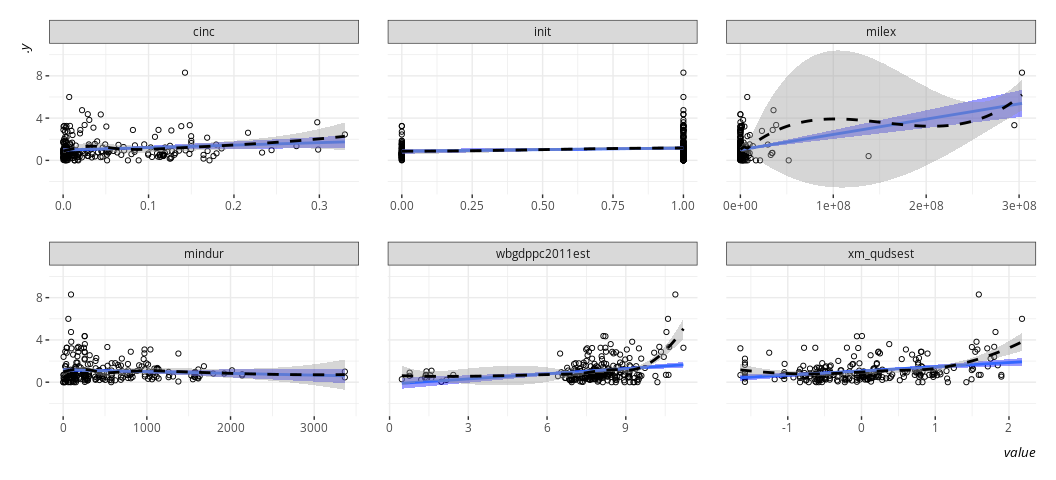
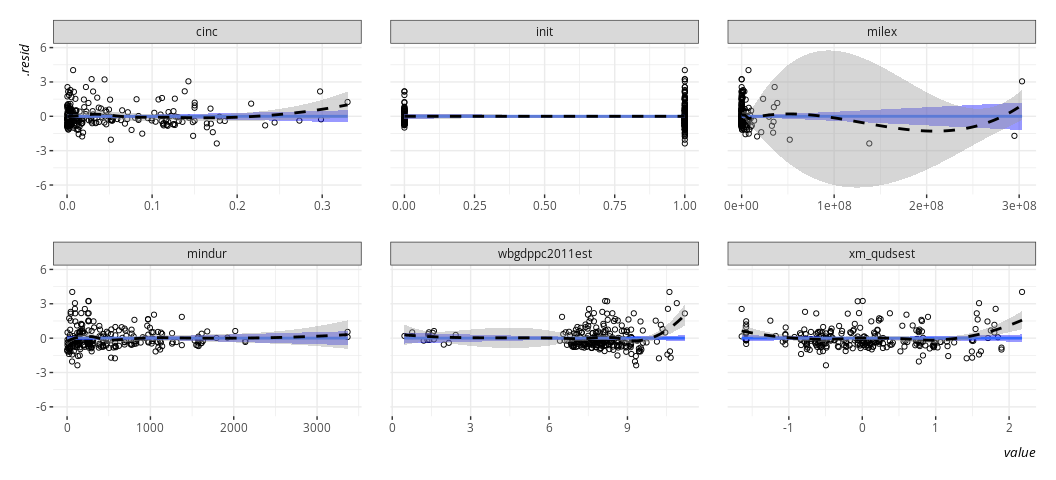
update

diff --git a/lab-scripts/ols-diagnostics.md b/lab-scripts/ols-diagnostics.md
@@ -40,25 +40,23 @@ trying to tell you.
 ## R Packages/Data for This Session
 
 You should’ve already installed the R packages for this lab session.
-`{tidyverse}` will be for all things workflow and that’s all we’ll be
-using today. `{stevedata}` will have data sets and `{stevemisc}` has
-some assorted helper functions. `{lmtest}` has some formal diagnostic
-tests. Do note that `options(warn = -1)` is just going to globally
-disable R warnings, which, in this script, will apply to the
-`linloess_plot()` function. Be very careful in your use of this global
-override. I’m going to introduce you as well to the `{modelsummary}`
-package too, which you may want to install. It’ll make model comparisons
-a lot easier.
+`{tidyverse}` will be for all things workflow. `{stevedata}` will have
+data sets and `{stevemisc}` has some assorted helper functions.
+`{lmtest}` has some formal diagnostic tests and convenience functions
+for summarizing standard error adjustments done by the `{sandwich}`
+package. `{modelsummary}` is awesome and you’ll kind of see what it’s
+doing along the way. `{stevethemes}` is optional, but I want to use it.
+I’ll offer a nod to the `{car}` package that is optional, but has a
+function that does what `linloess_plot()` does (but better).
 
 ``` r
-options(warn = -1)
 library(tidyverse)
 #> ── Attaching core tidyverse packages ──────────────────────── tidyverse 2.0.0 ──
-#> ✔ dplyr     1.1.1     ✔ readr     2.1.4
+#> ✔ dplyr     1.1.2     ✔ readr     2.1.4
 #> ✔ forcats   1.0.0     ✔ stringr   1.5.0
-#> ✔ ggplot2   3.5.1     ✔ tibble    3.2.1
+#> ✔ ggplot2   3.5.0     ✔ tibble    3.2.1
 #> ✔ lubridate 1.9.2     ✔ tidyr     1.3.0
-#> ✔ purrr     1.0.1     
+#> ✔ purrr     1.0.2     
 #> ── Conflicts ────────────────────────────────────────── tidyverse_conflicts() ──
 #> ✖ dplyr::filter() masks stats::filter()
 #> ✖ dplyr::lag()    masks stats::lag()
@@ -87,6 +85,9 @@ library(lmtest)
 library(sandwich)
 library(modelsummary)
 options("modelsummary_factory_default" = "kableExtra")
+# ^ this is new. Default is now "tinytable", but much of my code is written
+# around `{kableExtra}`. As you develop your skills, you may want to make the
+# pivot to `{modelsummary}`'s default.
 theme_set(theme_steve()) # optional, but I want it...
 ```
 
@@ -127,7 +128,6 @@ original participant (often meaning it self-selected into the conflict).
 Otherwise, it will be a 0.
 
 ``` r
-# M1 <- lm(jci ~ literacy_ba + s_leperc*s_partydom + turnout, A)
 states_war %>%
   mutate(ler = oppfatalmin/(fatalmin + 1),
          lerprop = oppfatalmin/(fatalmin + oppfatalmin),
@@ -321,8 +321,8 @@ well to flex with the `update()` function in R.
 ``` r
 Data %>% mutate(ln_ler = log(ler + 1)) -> Data
 
-M2 <- update(M1, ln_ler ~ . , na.action=na.exclude)
-M3 <- update(M1, lerprop ~ . , .)
+M2 <- update(M1, ln_ler ~ .)
+M3 <- update(M1, lerprop ~ .)
 ```
 
 Briefly: this is just updating `M1` to change the two DVs. A dot (`.`)
@@ -471,19 +471,19 @@ modelsummary(list("LER" = M1,
 <tr class="even">
 <td>AIC</td>
 <td>3374.9</td>
-<td></td>
+<td>689.1</td>
 <td>-7.8</td>
 </tr>
 <tr class="odd">
 <td>BIC</td>
 <td>3403.1</td>
-<td></td>
+<td>717.3</td>
 <td>20.2</td>
 </tr>
 <tr class="even">
 <td>Log.Lik.</td>
 <td>-1679.454</td>
-<td></td>
+<td>-336.530</td>
 <td>11.907</td>
 </tr>
 <tr class="odd">
@@ -516,7 +516,7 @@ more reason to believe the third model is the less offensive of the
 two.[^2] Let’s get our fitted-residual plot.
 
 ``` r
-broom::augment(M2, data=Data) %>%
+broom::augment(M2) %>%
   ggplot(.,aes(.fitted, .resid)) +
   geom_point(pch = 21) +
   geom_hline(yintercept = 0, linetype="dashed", color="red") +
@@ -612,13 +612,13 @@ Data %>%
          ln_milex = log(milex + 1)) -> Data
 
 
-M4 <- lm(log(ler + 1) ~ xm_qudsest + I(xm_qudsest^2) + 
+M4 <- lm(ln_ler ~ xm_qudsest + I(xm_qudsest^2) + 
            wbgdppc2011est + ln_milex + ln_mindur + cinc,
          Data)
 summary(M4)
 #> 
 #> Call:
-#> lm(formula = log(ler + 1) ~ xm_qudsest + I(xm_qudsest^2) + wbgdppc2011est + 
+#> lm(formula = ln_ler ~ xm_qudsest + I(xm_qudsest^2) + wbgdppc2011est + 
 #>     ln_milex + ln_mindur + cinc, data = Data)
 #> 
 #> Residuals:
@@ -649,7 +649,7 @@ I don’t think it’s going to be an issue, but now I’m curious…
 summary(update(M4, . ~ . -I(xm_qudsest^2), data=subset(Data, povdum == 1)))
 #> 
 #> Call:
-#> lm(formula = log(ler + 1) ~ xm_qudsest + wbgdppc2011est + ln_milex + 
+#> lm(formula = ln_ler ~ xm_qudsest + wbgdppc2011est + ln_milex + 
 #>     ln_mindur + cinc, data = subset(Data, povdum == 1))
 #> 
 #> Residuals:
@@ -938,12 +938,27 @@ modelsummary(list("log(LER + 1)" = M2,
 <td>0.247</td>
 </tr>
 <tr class="even">
+<td>AIC</td>
+<td>689.1</td>
+<td>683.3</td>
+</tr>
+<tr class="odd">
+<td>BIC</td>
+<td>717.3</td>
+<td>722.2</td>
+</tr>
+<tr class="even">
+<td>Log.Lik.</td>
+<td>-336.530</td>
+<td>-330.669</td>
+</tr>
+<tr class="odd">
 <td>RMSE</td>
 <td>0.92</td>
 <td>0.90</td>
 </tr>
 </tbody><tfoot>
-<tr class="odd">
+<tr class="even">
 <td colspan="3"><ul>
 <li>p &lt; 0.1, * p &lt; 0.05, ** p &lt; 0.01, *** p &lt; 0.001</li>
 </ul></td>
@@ -1208,11 +1223,15 @@ those values. Finally, apply those as weights in the linear model once
 more for a re-estimation.
 
 An older version of this script showed you how you can do it yourself.
-Just have `{stevemisc}` do it for you with the `wls()` function.
+Just have `{stevemisc}` do it for you with the `wls()` function. Just be
+mindful that the `wls()` function isn’t keen on data frames where
+observations have NAs. If you have those, and just want to ignore it and
+proceed, you may want to include an `na.action = na.exclude` as an
+optional argument in `lm()`. We can cheese that here with an `update()`.
 
 ``` r
 modelsummary(list("log(LER)" = M2,
-                  "WLS" = wls(M2)),
+                  "WLS" = wls(update(M2, na.action=na.exclude))),
              stars = TRUE,
              title = "A Caption for This Table. Hi Mom!",
              gof_map = c("nobs", "adj.r.squared"))
@@ -1322,6 +1341,7 @@ modelsummary(list("log(LER)" = M2,
 </tfoot>
 &#10;</table>
 
+
 Re-estimating the model by way of weighted least squares reveals some
 interesting changes, leaving open the possibility that any inference
 we’d like to report for the democracy variable, the initiator variable,
@@ -1341,20 +1361,28 @@ to adjust for this. This would make the standard errors “robust.”
 
 I mention above that I have an entire blog post that discusses some of
 these things in more detail than I will offer here. It’s a lament that
-it’s never just “do this and you’re done” thing; it’s always “fuck
+it’s never just “do this and you’re done” thing; it’s always a “fuck
 around and see what you find” thing. However, the “classic” standard
 error corrections are so-called “Huber-White” standard errors and are
 often known by the acronym “HC0”. The suggest defaults you often see in
 software for “robust” standard errors are type “HC3”, based on this
 offering from [Mackinnon and White
 (1985)](https://www.sciencedirect.com/science/article/abs/pii/0304407685901587).
+I can’t really say this with 100% certainty (because you won’t know
+until you can see it for yourself) but it’s often the case that older
+analyses that report “robust” standard errors are Huber-White (“HCO”)
+standard errors and “heteroskedasticity-robust” standard errors in newer
+analyses are HC3 standard errors. That’s at least a heuristic I’ve
+picked up from my experience.
 
-Alternatively, if I were you, I’d bootstrap this bad boy. You likewise
-have several options here, and I maintain it’s fun/advisable to do the
-bootstrap yourself rather than have some software bundle do it for you,
-and I have guides on previous course websites and on my blog that show
-you how to do this. Your have myriad options, but I’ll focus on just
-two. The first, the simple bootstrap pionereed by Bradley Efron,
+There’s another approach, which is 100% I’d do if I were presented the
+opportunity. I’d bootstrap this motherfucker. You likewise have several
+options here. I maintain it’s fun/advisable to do the bootstrap yourself
+rather than have some software bundle do it for you, and I have guides
+on previous course websites and on my blog that show you how to do this.
+However, we’ll keep it simple and focus on some convenience functions
+because they also illustrate the myriad options you have. Let’s focus on
+just two. The first, the simple bootstrap pionereed by Bradley Efron,
 resamples *with replacement* from the data and re-runs the model some
 number of times. In expectation, the mean coefficients of these
 re-estimated models converge on what it is in the offending model (which
@@ -1363,8 +1391,8 @@ deviation of the coefficients is your bootstrapped standard error*.
 Another popular approach is a bootstrapped model from the residuals.
 Sometimes called a “Bayesian” or “fractional” bootstrap, this approach
 had its hot girl summer on Twitter two or three years ago and leaves the
-regressors at their fixed values and resamples the residuals and adds
-them to the response variable.
+regressors at their fixed values, resamples the residuals, and adds them
+to the response variable.
 
 If you wanted to do any one of these in isolation, you’d want to
 leverage the `coeftest()` function in `{lmtest}` with the assorted
@@ -1416,20 +1444,19 @@ military expenditures that would not be discerned in the model with
 heteroskedastic standard errors. The other significant coefficients are
 still significant, but less precise.
 
-\#’ FYI, `{modelsummary}` appears to be able to do this as well. In this
-function, notice that the “Bootstrap” model is just `M1`. We are using
-the `vcov` argument here to bootstrap for us. This should work provided
-you have `{sandwich}` installed.
+FYI, `{modelsummary}` appears to be able to do this as well. In this
+function, notice what the `vcov` argument is doing and the order in
+which it is doing it.
 
 ``` r
 modelsummary(list("log(LER)" = M2,
-                  "WLS" = wls(M2),
+                  "WLS" = wls(update(M2, na.action=na.exclude)),
                   "HC0" = M2,
                   "HC3" = M2,
                   "Bootstrap" = M2,
                   "Resid. Boot." = M2),
              vcov = list(vcovHC(M2,type='const'),
-                         vcovHC(wls(M2)),
+                         vcovHC(wls(update(M2, na.action=na.exclude))),
                          vcovHC(M2,type='HC0'),
                          vcovHC(M2, type='HC3'),
                          vcovBS(M2),
